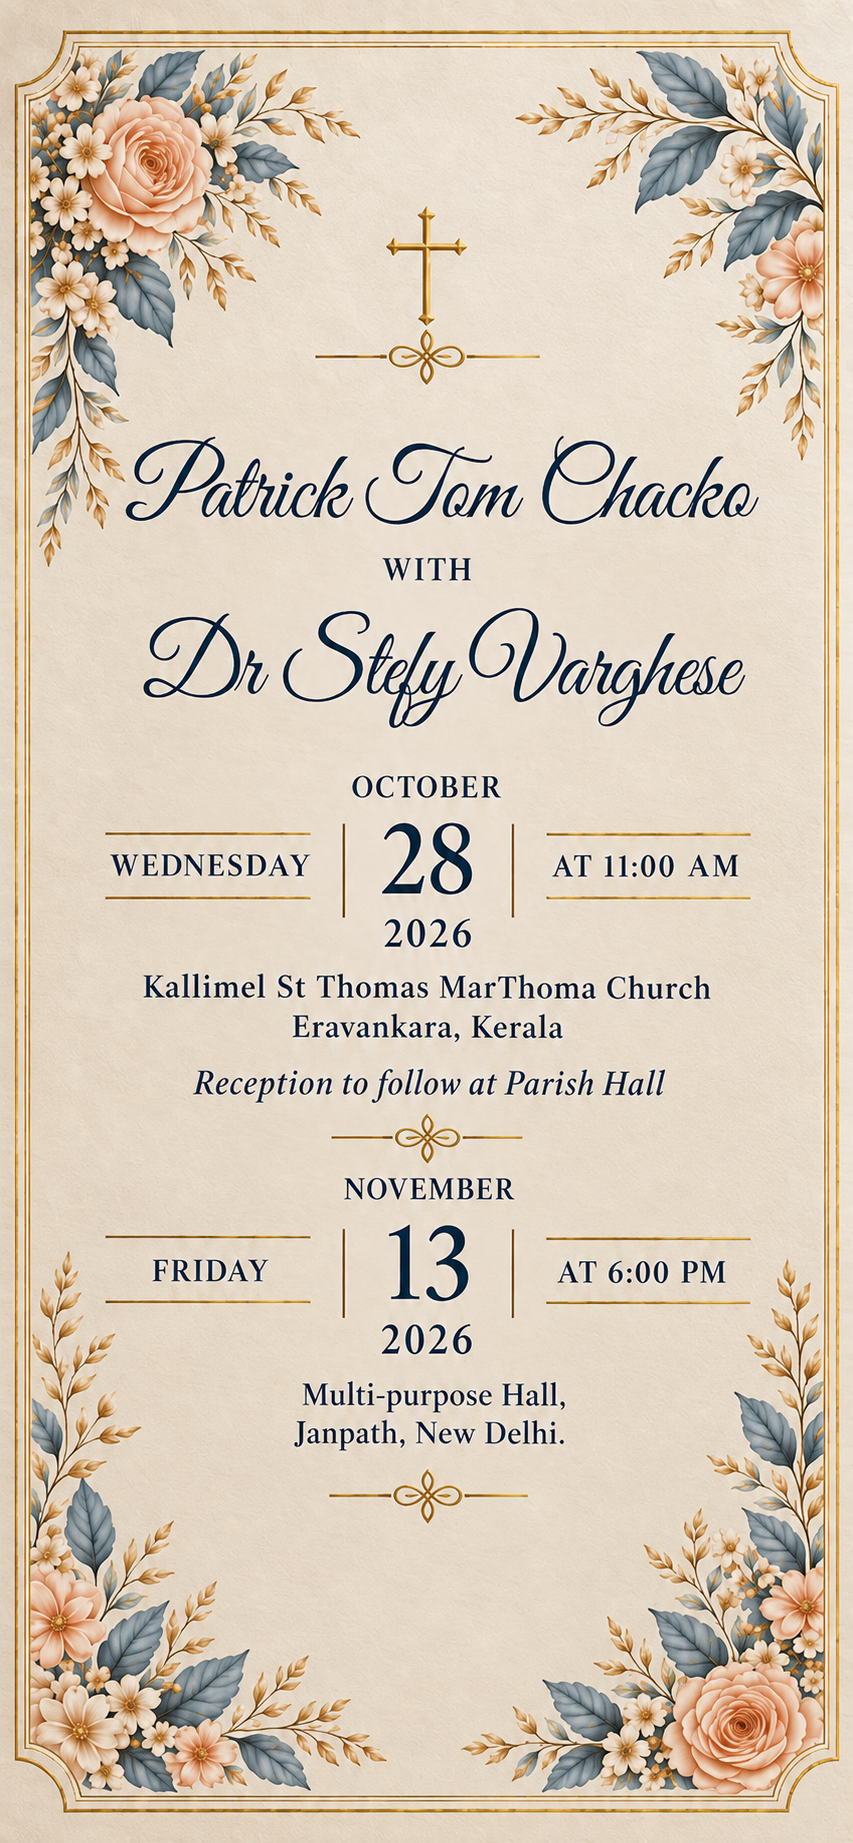
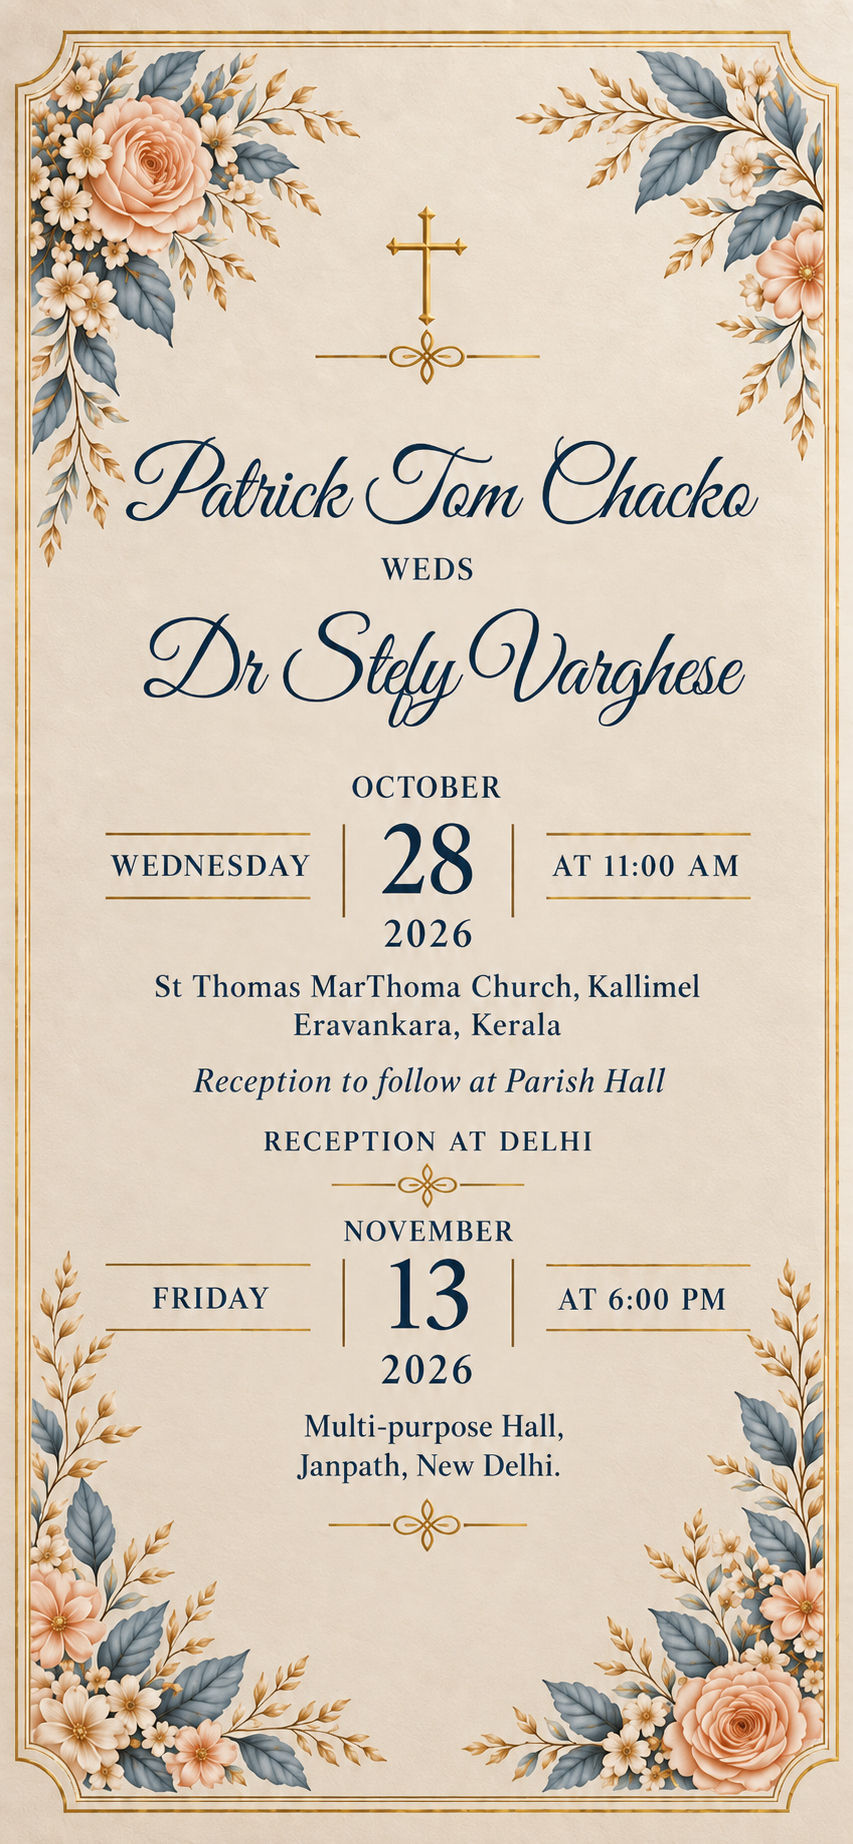
removed components

diff --git a/index.html b/index.html
@@ -274,11 +274,10 @@
 
         <p class="lede reveal" data-delay="1">
           With the blessings of God and the joy of two families coming together, Dr.&nbsp;Shiny&nbsp;Chacko &amp; Mr.&nbsp;P.&nbsp;T.&nbsp;Chacko cordially invite you to celebrate the wedding of their son <em>Patrick Tom Chacko</em> to the love of his life, <em>Dr. Stefy Varghese</em> (daughter of Mrs.&nbsp;Daisy Varghese &amp; Mr.&nbsp;Varghese&nbsp;T.K).<br><br>
-          What began as a quiet spark evolved into a bond built on shared dreams, endless laughter, and unwavering love. Having chosen each other to walk hand in hand through all of life’s chapters, <em>Patrick</em> and <em>Stefy</em> now begin their greatest adventure yet—with the wholehearted love and blessings of both their families.<br><br>
           Your gracious presence and prayers as they exchange their vows will make their celebration truly unforgettable.
         </p>
 
-        <ul class="facts">
+        <!-- <ul class="facts">
           <li class="fact reveal" data-delay="1">
             <svg class="ico" aria-hidden="true">
               <use href="#i-calendar"></use>
@@ -295,23 +294,23 @@
             <span class="fact-v">11:00 AM</span>
             <span class="fact-s">Wedding Ceremony</span>
           </li>
-          <!-- <li class="fact reveal" data-delay="3">
+          <li class="fact reveal" data-delay="3">
             <svg class="ico" aria-hidden="true">
               <use href="#i-church"></use>
             </svg>
             <span class="fact-k">Venue</span>
             <span class="fact-v">St. George Mar Thoma Church</span>
             <span class="fact-s">Vazhoor, Kottayam · By H.G. Dr. Theodosius Mar Thoma Metropolitan</span>
-          </li> -->
+          </li>
           <li class="fact reveal" data-delay="4">
             <svg class="ico" aria-hidden="true">
               <use href="#i-pin"></use>
             </svg>
             <span class="fact-k">Reception</span>
             <span class="fact-v">Kallimel St Thomas Parish Hall</span>
-            <!-- <span class="fact-s">Vazhoor, Kottayam</span> -->
+            <span class="fact-s">Vazhoor, Kottayam</span>
           </li>
-        </ul>
+        </ul> -->
 
         <div class="countdown reveal" data-delay="2" aria-label="Countdown to the wedding day">
           <!-- FEATURE 3 · Countdown Pulse Rings -->
@@ -405,7 +404,7 @@
 
 
     <!-- ---------- TIMELINE ---------- -->
-    <section id="timeline" class="scene scene--flow scene--ivory">
+    <!-- <section id="timeline" class="scene scene--flow scene--ivory">
       <img class="section-bg" src="assets/images/decorations/wash-ivory.svg" alt="" loading="lazy" decoding="async">
       <div class="section-overlay" aria-hidden="true"></div>
       <div class="section-content">
@@ -480,6 +479,8 @@
             <h3 class="person-name">Patrick Tom Chacko</h3>
             <p class="person-line">Son of Dr.&nbsp;Shiny&nbsp;Chacko&nbsp;&amp;&nbsp;Mr.&nbsp;P.&nbsp;T.&nbsp;Chacko</p>
             <p class="person-place">1-5/22, Sector 16, Rohini, New Delhi – 110089</p>
+            <p class="person-grand-title">Grandparents</p>
+            <p class="person-grand">Late Mrs.&nbsp;Saramma&nbsp;Thomas &amp; Mr.&nbsp;Thomas&nbsp;Pappan<br>And Mrs.&nbsp;Elsy&nbsp;Chacko &amp; Lt.&nbsp;Cdr.&nbsp;P.D.&nbsp;Chacko (Retd.)</p>
           </article>
 
           <!-- FEATURE 5 · Animated Heart Ornament -->
@@ -504,55 +505,12 @@
             <h3 class="person-name">Dr. Stefy Varghese</h3>
             <p class="person-line">Daughter of Mrs.&nbsp;Daisy&nbsp;Varghese&nbsp;&amp;&nbsp;Mr.&nbsp;Varghese&nbsp;T.K</p>
             <p class="person-place">Thekemuriyil House, Kodungoor, Vazhoor P.O., Kottayam, Kerala.</p>
-          </article>
-        </div>
-      </div>
-    </section>  
-
-
-    <!-- ---------- PARENTS & FAMILY ---------- -->
-    <section id="family" class="scene scene--flow scene--beige">
-      <img class="section-bg" src="assets/images/decorations/wash-beige.svg" alt="" loading="lazy" decoding="async">
-      <div class="section-overlay" aria-hidden="true"></div>
-      <div class="section-content">
-        <div class="sec-head reveal">
-          <p class="kicker">With Love &amp; Prayers</p>
-          <h2 class="sec-title">Parents &amp; Family</h2>
-          <div class="divider" aria-hidden="true">
-            <span class="divider-line"></span>
-            <svg class="ico" aria-hidden="true">
-              <use href="#i-bible"></use>
-            </svg>
-            <span class="divider-line"></span>
-          </div>
-        </div>
-
-        <div class="family-grid">
-          <article class="card card--family reveal" data-delay="1">
-            <svg class="ico card-ico" aria-hidden="true">
-              <use href="#i-church"></use>
-            </svg>
-            <p class="family-tag">Groom's Family</p>
-            <h3 class="family-name">Dr. Shiny Chacko &amp; Mr. P. T. Chacko</h3>
-            <!-- <p class="family-amp">Parents of the Groom</p>  -->
-            <p class="family-amp family-amp--grand">Grandparents of the Groom</p>
-            <p class="family-ml">Late Mrs. Saramma Thomas &amp; Mr. Thomas Pappan And Mrs. Elsy Chacko &amp; Lt. Cdr. P.D. Chacko (Retd.)</p>
-          </article>
-
-          <article class="card card--family reveal" data-delay="2">
-            <svg class="ico card-ico" aria-hidden="true">
-              <use href="#i-church"></use>
-            </svg>
-            <p class="family-tag">Bride's Family</p>
-            <h3 class="family-name">Mrs. Daisy Varghese &amp; Mr. Varghese T.K</h3>
-            <!-- <p class="family-amp">Parents of the Bride</p> -->
-            <!-- <p class="family-home">Thekemuriyil House, Kodungoor, Vazhoor P.O., Kottayam – 686504</p> -->
-            <p class="family-amp family-amp--grand">Grandparents of the Bride</p>
-            <p class="family-ml">Late Mrs. Mariamma Kuriakose &amp; Late Mr. Kuriakose T.V And Mrs. Aleyamma John &amp; Late Mr. John C.K</p>
+            <p class="person-grand-title">Grandparents</p>
+            <p class="person-grand">Late Mrs.&nbsp;Mariamma&nbsp;Kuriakose &amp; Late Mr.&nbsp;Kuriakose&nbsp;T.V<br>And Mrs.&nbsp;Aleyamma&nbsp;John &amp; Late Mr.&nbsp;John&nbsp;C.K</p>
           </article>
         </div>
 
-        <p class="family-foot reveal" data-delay="3">
+        <p class="couple-foot reveal" data-delay="3">
           Together with their families, relatives and well-wishers.
         </p>
       </div>
@@ -600,21 +558,21 @@
                 <dt><svg class="ico">
                     <use href="#i-pin"></use>
                   </svg> Venue</dt>
-                <dd>Kallimel St Thomas MarThoma Church,<br>
+                <dd>St Thomas MarThoma Church,Kallimel<br>
                   <span class="muted"> Eravankara, Kerala</span></dd>
               </div>
               <div class="tc-row">
                 <dt><svg class="ico">
                     <use href="#i-church"></use>
                   </svg> Solemnised by</dt>
-                <dd>His Grace Dr. Theodosius Mar Thoma<br>
+                <dd>His Grace The Most Rev Dr. Theodosius Mar Thoma Metropolitan<br>
                   <span class="muted">Metropolitan</span></dd>
               </div>
               <div class="tc-row">
                 <dt><svg class="ico">
                     <use href="#i-bible"></use>
-                  </svg> Rituals</dt>
-                <dd>Holy Matrimony Service</dd>
+                  </svg> Reception</dt>
+                <dd>St Thomas Parish Hall</dd>
               </div>
             </dl>
 
@@ -825,47 +783,12 @@
         </div>
         <p class="finale-sub reveal">for being a part of our story</p>
         <p class="finale-ml reveal" data-delay="1">With Love &amp; Gratitude</p>
+        <p>Patricia & Bibin</p>
       </div>
     </section>
 
-
-    <!-- ---------- FOOTER ---------- -->
-    <footer id="footer" class="scene scene--flow scene--finale footer">
-      <img class="section-bg" src="assets/images/decorations/wash-finale.svg" alt="" loading="lazy" decoding="async">
-      <div class="section-overlay" aria-hidden="true"></div>
-      <div class="section-content section-content--center">
-        <!-- FEATURE 6 · Footer Sparkles around the cross -->
-        <span class="footer-sparkles" aria-hidden="true">
-          <svg class="ico footer-crest" aria-hidden="true">
-            <use href="#i-cross"></use>
-          </svg>
-          <span class="sparkle" style="--st:-28px; --sl:50%;  --sw:5px; --sd:2.2s; --sdelay:0s;"></span>
-          <span class="sparkle" style="--st:50%;  --sl:-28px; --sw:4px; --sd:2.8s; --sdelay:0.6s;"></span>
-          <span class="sparkle" style="--st:50%;  --sl:128%;  --sw:5px; --sd:2.4s; --sdelay:1.1s;"></span>
-          <span class="sparkle" style="--st:120%;  --sl:50%;  --sw:4px; --sd:2.0s; --sdelay:0.3s;"></span>
-          <span class="sparkle" style="--st:-20px; --sl:20%;  --sw:3px; --sd:3.1s; --sdelay:0.8s;"></span>
-          <span class="sparkle" style="--st:-20px; --sl:80%;  --sw:3px; --sd:2.6s; --sdelay:1.5s;"></span>
-        </span>
-        <p class="footer-blessing">With the Blessings of God</p>
-        <p class="footer-bless-en">
-          May the Lord bless this union with health, harmony, peace and happiness
-          for a lifetime.
-        </p>
-         
-        <p class="footer-names">Patrick Tom Chacko <br> <span>&amp;</span> <br>
-           Dr. Stefy Varghese</p>
-        <p class="footer-date">28 October 2026</p>
-        <p class="footer-fine">With Love &amp; Prayers</p>
-        <div class="footer-whatsapp" style="margin-top: 24px;">
-          <a class="btn btn--gold" target="_blank" rel="noopener" href="https://wa.me/8376985630?text=Hi">
-            <svg class="ico" aria-hidden="true" style="width: 18px; height: 18px; display: inline-block; vertical-align: middle; margin-right: 6px;">
-              <use href="#i-phone"></use>
-            </svg>
-            RSVP on WhatsApp <br> (+91 83769 85630)
-          </a>
-        </div>
-      </div>
-    </footer>
+ 
+    
 
   </main>
 

diff --git a/css/style.css b/css/style.css
@@ -1564,6 +1564,36 @@ body:not(.is-revealed) #site * {
   margin-top: 6px
 }
 
+.person-grand-title {
+  font-family: var(--f-display);
+  font-style: italic;
+  font-size: 19px;
+  color: var(--gold-lt) !important;
+  margin-top: 14px;
+  margin-bottom: 3px;
+}
+
+.person-grand {
+  font-size: 13px;
+  color: rgba(255, 255, 255, 0.9) !important;
+  line-height: 1.65;
+}
+
+.couple-foot {
+  display: flex;
+  align-items: center;
+  justify-content: center;
+  gap: 12px;
+  flex-wrap: wrap;
+  margin-top: clamp(28px, 4vw, 42px);
+  font-family: var(--f-display);
+  font-style: italic;
+  font-size: clamp(16px, 4vw, 20px);
+  color: var(--gold-lt);
+  text-align: center;
+  opacity: .95;
+}
+
 .couple-knot {
   display: flex;
   align-items: center;
